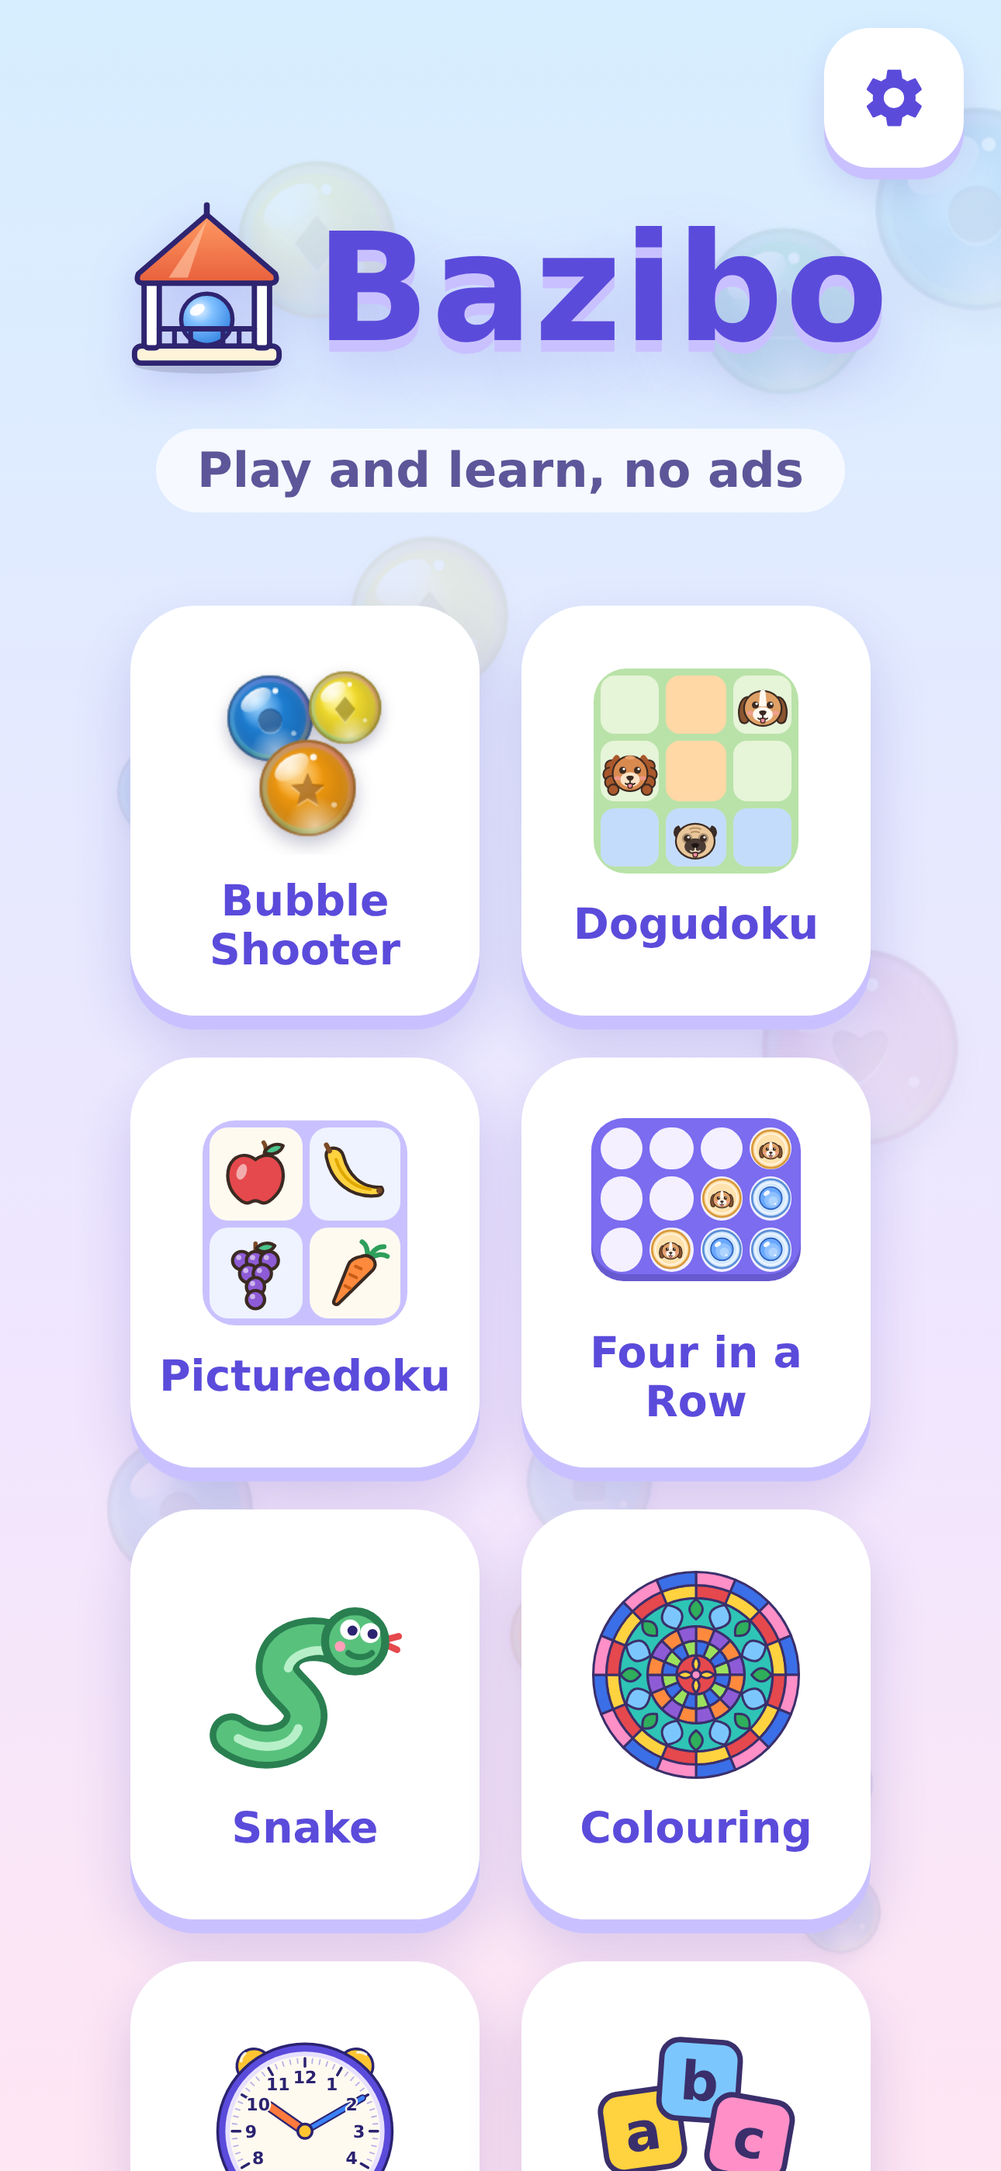
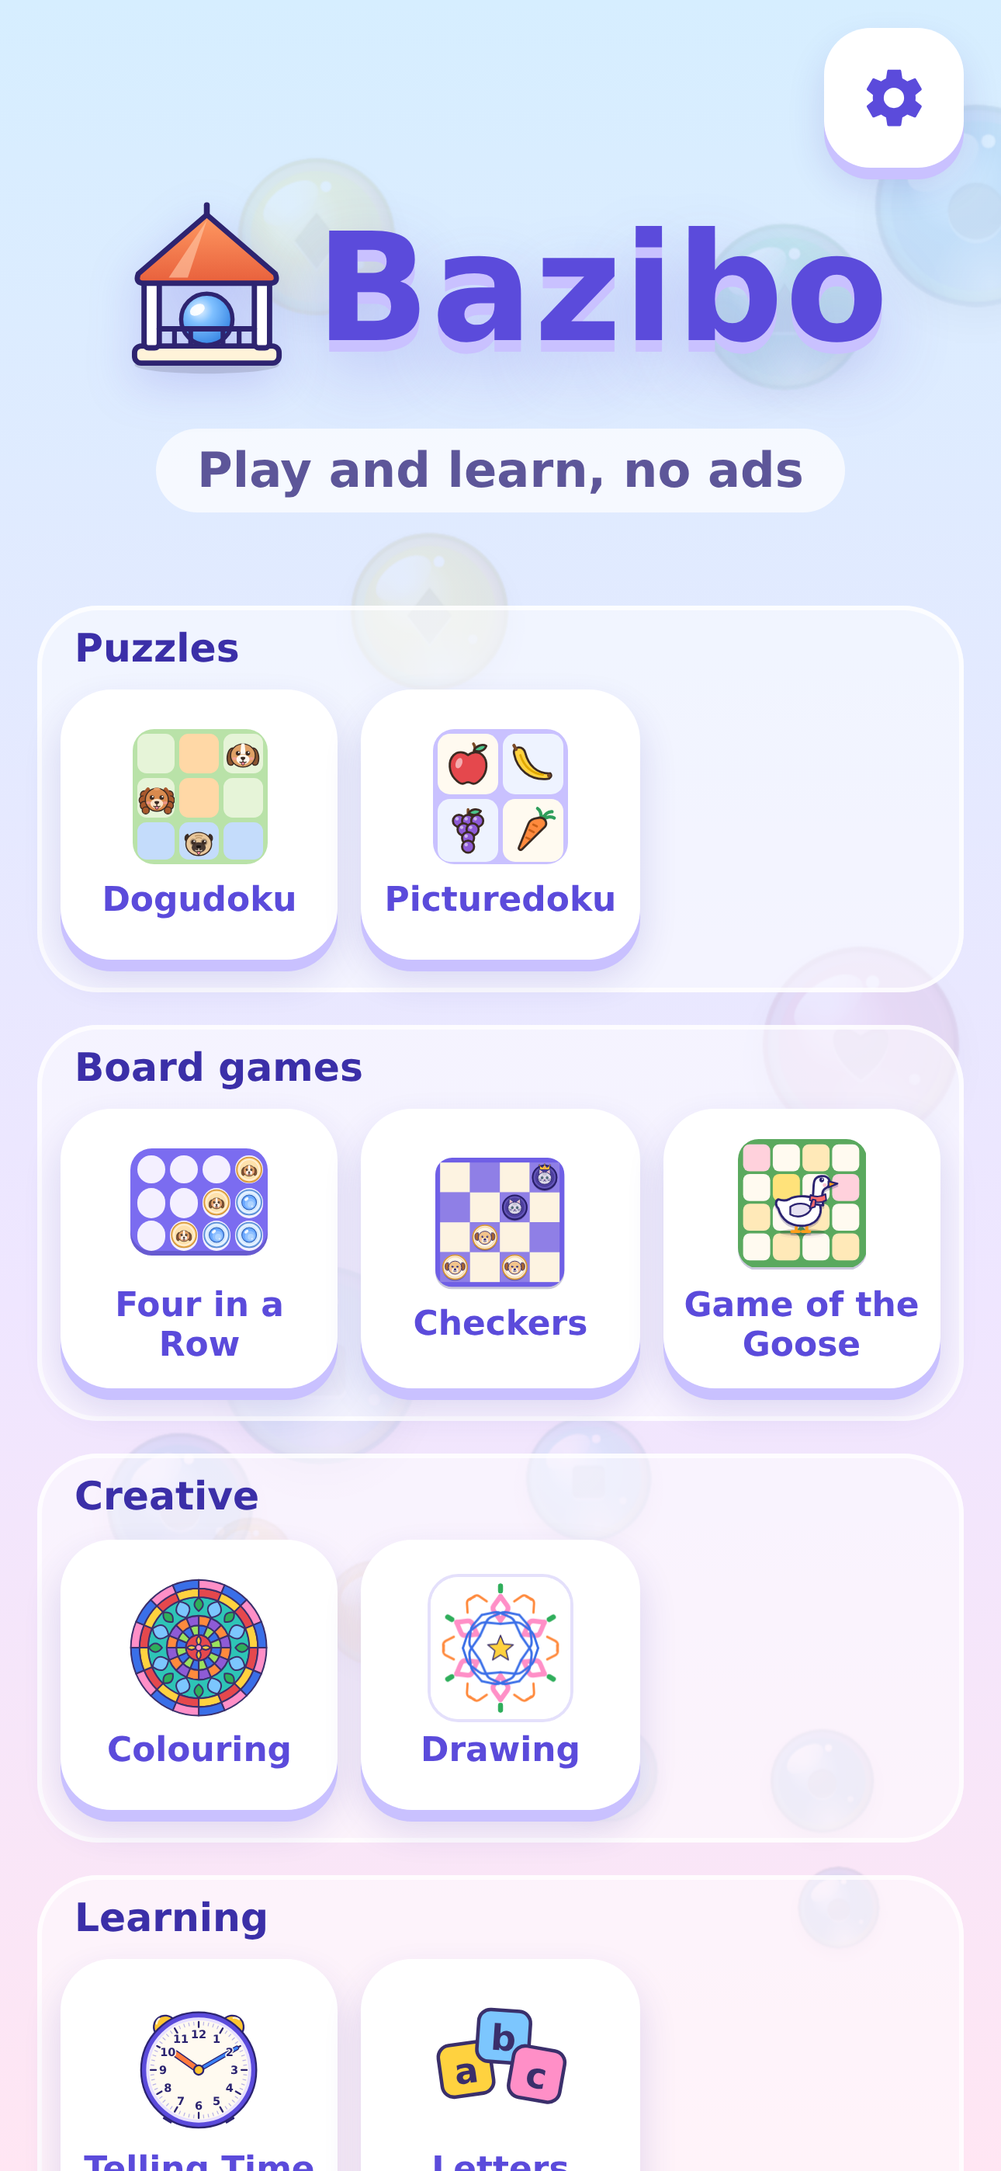
Home screen: game tiles as an app grid, in sections (#32)
* Home screen: the game tiles as an app grid, in sections

The tiles sat in one long column (two side by side). They now stand in five
sections, like folders on a phone: Puzzels/Puzzles, Bordspellen/Board games,
Creatief/Creative, Leren/Learning, Actie/Action.

- Data-driven: each game's meta.js names its `group`; GROUPS in games.js holds
  the sections and their order. main.js builds the tiles (same ids, same art,
  same click handling); index.html only has the container.
- Each section is a CSS grid with auto-fill/minmax: 3 tiles a row on phones
  from 360 px, 2 at 320 px (so the names stay whole), and on wider screens the
  sections stand side by side (tablet 5 a row, desktop 7).
- The 92 px tile drawings are scaled with `zoom` per size.
- Section headings in nl and en through t(); a test checks every game has a
  known section and no section is empty.
- Store screenshots: only 1-start (the home screen) regenerated.

* Home grid review fixes: whole names at 360 px, an "Overig" section for unknown groups

- The tile names scale with the tile's width (container query units,
  min(0.92rem, 13.4cqi)), so "Kleurplaten" and "Ganzenbord" stay whole in a
  3-column tile at 360 and 375 px, and in the sideways layouts; measured with
  ranges per word at 320, 360, 375, 390, 412, 568x320 and 844x390 in nl and en.
- A game whose `group` is not in GROUPS is no longer skipped: console.error and
  a tile in an "Overig"/"Other" section at the end (OTHER_GROUP).
[…]

Changed region(s): [[0.031, 0.28, 0.9612, 1.0], [0.8682, 0.9335, 0.8992, 1.0], [0.9302, 0.28, 0.9612, 0.3112]]

diff --git a/web/css/style.css b/web/css/style.css
@@ -139,38 +139,72 @@ html, body {
   padding: 12px 16px;
   z-index: 1;
 }
-.tiles {
+/* The tiles sit in sections (a group per kind of game, built by main.js), like the folders on a
+   phone's home screen. Phones: the sections are stacked and each one is a grid that fits as many
+   tiles of at least --tile-min as the width allows (3 on most phones, 2 on 320 px). Wider screens:
+   the sections stand side by side, each as wide as its own tiles (--n, set by main.js). */
+.tile-groups {
+  --tile-min: 96px;
+  --tile-gap: 10px;
+  --group-pad: 10px;
+  --art: 0.66; /* the 92 px drawings on the tiles, scaled */
+  width: 100%;
+  max-width: 560px;
   display: flex;
   flex-wrap: wrap;
   justify-content: center;
-  gap: 18px;
+  gap: 14px;
   margin: 0 0 4px;
+}
+.tile-group {
+  flex: 1 1 100%;
+  min-width: 0;
+  padding: 8px var(--group-pad) 14px;
+  border-radius: 26px;
+  background: rgba(255, 255, 255, 0.5);
+  box-shadow: inset 0 0 0 2px rgba(255, 255, 255, 0.75);
+  text-align: left;
+}
+.group-name {
+  margin: 0 6px 8px;
+  font-size: 1.05rem;
+  font-weight: 900;
+  line-height: 1.2;
+  color: var(--primary-dark);
+}
+.tiles {
+  display: grid;
+  grid-template-columns: repeat(auto-fill, minmax(var(--tile-min), 1fr));
+  gap: var(--tile-gap);
 }
 .tile {
   font: inherit;
   position: relative;
-  width: 150px;
-  min-height: 176px;
-  padding: 14px 10px 16px;
+  min-width: 0;
+  min-height: 116px;
+  padding: 10px 5px;
   border: 0;
-  border-radius: 28px;
+  border-radius: 22px;
   background: #fff;
   color: var(--primary);
-  box-shadow: 0 6px 0 #c9c1ff, 0 12px 24px rgba(59, 47, 168, 0.18);
+  box-shadow: 0 5px 0 #c9c1ff, 0 8px 16px rgba(59, 47, 168, 0.16);
   display: flex;
   flex-direction: column;
   align-items: center;
   justify-content: center;
-  gap: 10px;
+  gap: 6px;
+  text-align: center;
   cursor: pointer;
   touch-action: manipulation;
   transition: transform 0.08s ease, box-shadow 0.08s ease;
+  container-type: inline-size; /* the name's size follows the tile's width (cqi) */
 }
-.tile:active { transform: translateY(4px); box-shadow: 0 2px 0 #c9c1ff, 0 4px 10px rgba(59, 47, 168, 0.18); }
-.tile:focus-visible { outline: 4px solid var(--gold); outline-offset: 4px; }
-.tile-art { width: 92px; height: 92px; display: block; }
-.tile-art > span { flex: none; } /* the drawn mini boards keep their shape when scaled */
-.tile-name { font-size: 1.15rem; font-weight: 900; line-height: 1.15; overflow-wrap: anywhere; hyphens: manual; }
+.tile:active { transform: translateY(4px); box-shadow: 0 1px 0 #c9c1ff, 0 3px 8px rgba(59, 47, 168, 0.18); }
+.tile:focus-visible { outline: 4px solid var(--gold); outline-offset: 3px; }
+.tile-art { width: 92px; height: 92px; display: block; flex: none; zoom: var(--art); }
+.tile-art > span { flex: none; } /* the drawn mini boards keep their shape */
+/* the longest single words ("Kleurplaten", "Ganzenbord") must fit whole in a 3-column tile at 360 px */
+.tile-name { font-size: min(0.92rem, 13.4cqi); font-weight: 900; line-height: 1.15; overflow-wrap: break-word; hyphens: manual; }
 .tile.soon { background: rgba(255, 255, 255, 0.72); color: var(--ink-soft); }
 .tile.soon .tile-art { opacity: 0.6; }
 .badge {
@@ -393,17 +427,35 @@ html, body {
   .brand-mark { width: 52px; height: 52px; }
   .btn.big { min-height: 60px; font-size: 1.4rem; }
   .tagline { margin-bottom: 4px; }
-  .tile { min-height: 132px; width: 132px; padding: 10px; }
-  .tile-art { width: 64px; height: 64px; }
-  .tile-art > span { transform: scale(0.72); } /* the small drawn boards on the tiles */
   .promise { display: none; }
+  .tile-groups { --tile-min: 92px; --tile-gap: 8px; --group-pad: 8px; --art: 0.62; }
+  .tile { min-height: 108px; padding: 8px 4px; }
+  .tile-name { font-size: min(0.86rem, 13.4cqi); }
+  .group-name { margin-bottom: 6px; font-size: 1rem; }
 }
 
-/* narrow phones (320-360 px): two tiles side by side instead of one long column */
-@media (max-width: 360px) {
-  .tiles { gap: 14px; }
-  .tile { width: 132px; min-height: 152px; padding: 10px 8px 12px; gap: 8px; }
-  .tile-art { width: 76px; height: 76px; }
-  .tile-art > span { transform: scale(0.84); }
+/* narrow phones (320 px): two tiles a row, so the names stay whole; the drawings a bit bigger */
+@media (max-width: 359px) {
+  .tile-groups { --art: 0.78; --tile-gap: 10px; }
+}
+
+/* wider screens: the sections side by side, each as wide as its tiles */
+@media (min-width: 560px) {
+  .tile-groups { max-width: 1180px; gap: 14px 16px; }
+  .tile-group {
+    flex: 0 1 auto;
+    width: calc(var(--n) * var(--tile-min) + (var(--n) - 1) * var(--tile-gap) + 2 * var(--group-pad));
+  }
+}
+/* tablets and desktop (tall enough): bigger tiles */
+@media (min-width: 720px) and (min-height: 521px) {
+  .tile-groups { --tile-min: 124px; --tile-gap: 12px; --group-pad: 12px; --art: 0.86; }
+  .tile { min-height: 150px; border-radius: 26px; gap: 8px; }
   .tile-name { font-size: 1.05rem; }
+  .group-name { font-size: 1.15rem; }
+}
+@media (min-width: 1100px) and (min-height: 521px) {
+  .tile-groups { --tile-min: 140px; --art: 0.95; }
+  .tile { min-height: 166px; }
+  .tile-name { font-size: 1.12rem; }
 }

diff --git a/web/index.html b/web/index.html
@@ -26,7 +26,7 @@
 </head>
 <body>
   <main id="app">
-    <!-- home: the brand and one tile per game -->
+    <!-- home: the brand and one tile per game, grouped -->
     <section id="screen-home" class="screen active" data-i18n-aria="home.label" aria-label="Start">
       <canvas id="home-bg" aria-hidden="true"></canvas>
       <header class="home-top">
@@ -41,52 +41,8 @@
           <h1 class="logo" id="brand-name">Bazibo</h1>
         </div>
         <p class="tagline" id="brand-tagline">Spelen en leren, zonder reclame</p>
-        <div class="tiles" role="group" data-i18n-aria="home.games" aria-label="Spellen">
-          <button id="tile-bubbels" class="tile" type="button" data-game="bubbels">
-            <canvas class="tile-art" width="160" height="160" aria-hidden="true"></canvas>
-            <span class="tile-name" data-i18n="bubbels.title">Bubbels schieten</span>
-          </button>
-          <button id="tile-dogudoku" class="tile" type="button" data-game="dogudoku">
-            <span class="tile-art" aria-hidden="true"></span>
-            <span class="tile-name" data-i18n="games.dogudoku">Dogudoku</span>
-          </button>
-          <button id="tile-picturedoku" class="tile" type="button" data-game="picturedoku">
-            <span class="tile-art" aria-hidden="true"></span>
-            <span class="tile-name" data-i18n="games.picturedoku">Picture&shy;doku</span>
-          </button>
-          <button id="tile-vier" class="tile" type="button" data-game="vier">
-            <span class="tile-art" aria-hidden="true"></span>
-            <span class="tile-name" data-i18n="games.vier">Vier op een rij</span>
-          </button>
-          <button id="tile-dammen" class="tile" type="button" data-game="dammen">
-            <span class="tile-art" aria-hidden="true"></span>
-            <span class="tile-name" data-i18n="games.dammen">Dammen</span>
-          </button>
-          <button id="tile-ganzen" class="tile" type="button" data-game="ganzen">
-            <span class="tile-art" aria-hidden="true"></span>
-            <span class="tile-name" data-i18n="games.ganzen">Ganzenbord</span>
-          </button>
-          <button id="tile-slang" class="tile" type="button" data-game="slang">
-            <span class="tile-art" aria-hidden="true"></span>
-            <span class="tile-name" data-i18n="games.slang">Slangetje</span>
-          </button>
-          <button id="tile-kleuren" class="tile" type="button" data-game="kleuren">
-            <span class="tile-art" aria-hidden="true"></span>
-            <span class="tile-name" data-i18n="games.kleuren">Kleurplaten</span>
-          </button>
-          <button id="tile-tekenen" class="tile" type="button" data-game="tekenen">
-            <span class="tile-art" aria-hidden="true"></span>
-            <span class="tile-name" data-i18n="games.tekenen">Tekenen</span>
-          </button>
-          <button id="tile-klok" class="tile" type="button" data-game="klok">
-            <span class="tile-art" aria-hidden="true"></span>
-            <span class="tile-name" data-i18n="games.klok">Klok kijken</span>
-          </button>
-          <button id="tile-letters" class="tile" type="button" data-game="letters">
-            <span class="tile-art" aria-hidden="true"></span>
-            <span class="tile-name" data-i18n="games.letters">Letters</span>
-          </button>
-        </div>
+        <!-- the game tiles, in sections (Puzzels, Bordspellen, ...): built by main.js from GROUPS and GAMES in js/games.js -->
+        <div class="tile-groups" id="tile-groups" role="group" data-i18n-aria="home.games" aria-label="Spellen"></div>
         <p class="promise" data-i18n="home.promise">Geen reclame. Nooit.</p>
         <p class="lore" id="brand-lore">Bazibo: “bāzi” betekent spel</p>
       </div>

diff --git a/web/js/main.js b/web/js/main.js
@@ -2,7 +2,7 @@
 // the one purchase that opens every game. Each game lives in web/games/<id>/.
 import { BRAND } from './brand.js';
 import { gazeboSvg } from './logo.js';
-import { GAMES } from './games.js';
+import { GAMES, GROUPS, OTHER_GROUP } from './games.js';
 import { t, getLang, setLang, pickLang, onLangChange, translateDom } from './i18n.js';
 import { COLORS, getSprite, drawBubble } from './bubble-art.js';
 import * as store from './storage.js';
@@ -152,6 +152,53 @@ $('#btn-transfer').addEventListener('click', () => {
 });
 
 // ---------- home tiles ----------
+
+/** One section per group (GROUPS in games.js) with its games' tiles, in GAMES order. The art is
+ *  drawn into each `.tile-art` later (drawTileArt and friends); the texts come from translateDom. */
+function buildTiles() {
+  const box = $('#tile-groups');
+  // a game whose group is not in GROUPS still gets a tile, in an "Overig" section at the end
+  const known = new Set(GROUPS.map((g) => g.id));
+  const lost = GAMES.filter((g) => !known.has(g.group));
+  for (const g of lost) console.error(`home: game ${g.id} has an unknown group ${JSON.stringify(g.group)}; shown under ${OTHER_GROUP.id}`);
+  for (const group of [...GROUPS, OTHER_GROUP]) {
+    const list = group === OTHER_GROUP ? lost : GAMES.filter((g) => g.group === group.id);
+    if (!list.length) continue;
+    const section = document.createElement('section');
+    section.className = 'tile-group';
+    section.style.setProperty('--n', list.length);
+    const head = document.createElement('h2');
+    head.className = 'group-name';
+    head.id = `group-${group.id}`;
+    head.dataset.i18n = group.titleKey;
+    head.textContent = t(group.titleKey);
+    const tiles = document.createElement('div');
+    tiles.className = 'tiles';
+    tiles.setAttribute('role', 'group');
+    tiles.setAttribute('aria-labelledby', head.id);
+    for (const game of list) {
+      const tile = document.createElement('button');
+      tile.id = `tile-${game.id}`;
+      tile.className = game.status === 'ready' ? 'tile' : 'tile soon';
+      tile.type = 'button';
+      tile.dataset.game = game.id;
+      // Bubbels paints its bubbles on a canvas; the other games put their own drawing in a span
+      const art = document.createElement(game.id === 'bubbels' ? 'canvas' : 'span');
+      if (art instanceof HTMLCanvasElement) art.width = art.height = 160;
+      art.className = 'tile-art';
+      art.setAttribute('aria-hidden', 'true');
+      const name = document.createElement('span');
+      name.className = 'tile-name';
+      name.dataset.i18n = game.titleKey;
+      name.textContent = t(game.titleKey);
+      tile.append(art, name);
+      tiles.append(tile);
+    }
+    section.append(head, tiles);
+    box.append(section);
+  }
+}
+buildTiles();
 
 function drawTileArt() {
   const c = $('#tile-bubbels .tile-art');
@@ -391,7 +438,7 @@ const homeAnim = {
       canvas.width = Math.round(w * dpr);
       canvas.height = Math.round(h * dpr);
       const base = canvas.getBoundingClientRect();
-      keepOut = ['.logo', '.tagline', '.tiles'].map((sel) => {
+      keepOut = ['.logo', '.tagline', '.tile-groups'].map((sel) => {
         const r = $(sel).getBoundingClientRect();
         return { x0: r.left - base.left, x1: r.right - base.left, y0: r.top - base.top, y1: r.bottom - base.top };
       });

diff --git a/tests/i18n.test.js b/tests/i18n.test.js
@@ -18,7 +18,7 @@ import { STAMPS } from '../web/games/tekenen/drawing.js';
 import '../web/games/klok/strings.js';
 import '../web/games/letters/strings.js';
 import '../web/js/random.js';
-import { GAMES } from '../web/js/games.js';
+import { GAMES, GROUPS, OTHER_GROUP } from '../web/js/games.js';
 import { BRAND } from '../web/js/brand.js';
 
 const WEB = new URL('../web/', import.meta.url).pathname;
@@ -51,6 +51,7 @@ test('every key used in index.html and in the code exists', () => {
     for (const m of readFileSync(f, 'utf8').matchAll(/\bt\('([a-zA-Z0-9.]+)'/g)) used.add(m[1]);
   }
   for (const g of GAMES) used.add(g.titleKey);
+  for (const g of [...GROUPS, OTHER_GROUP]) used.add(g.titleKey); // the section headings on the home screen
   for (const n of [1, 2, 3]) used.add(`bubbels.win${n}`); // built as t(`bubbels.win${stars}`)
   for (const n of [1, 2, 3]) used.add(`dogudoku.win${n}`);
   for (const r of ['row', 'col', 'region', 'touch', 'bush']) used.add(`dogudoku.rule.${r}`).add(`dogudoku.oops.${r}`);
@@ -108,4 +109,12 @@ test('t() fills placeholders and the brand name, and switches language', () => {
 test('the brand has a name and a tagline in every language', () => {
   assert.ok(BRAND.name);
   for (const l of LANGS) assert.ok(BRAND.tagline[l], `tagline missing for ${l}`);
+});
+
+test('every game sits in one section of the home screen, and no section is empty', () => {
+  const ids = GROUPS.map((g) => g.id);
+  assert.equal(new Set(ids).size, ids.length, 'a section id twice');
+  assert.ok(!ids.includes(OTHER_GROUP.id), 'the fallback section is not a real one');
+  for (const g of GAMES) assert.ok(ids.includes(g.group), `${g.id}: group ${g.group} is not in GROUPS`);
+  for (const id of ids) assert.ok(GAMES.some((g) => g.group === id), `section ${id} has no games`);
 });

diff --git a/web/js/games.js b/web/js/games.js
@@ -1,6 +1,7 @@
 // The games in the app, in the order of the tiles on the home screen. A game that is not ready
 // yet shows as a "coming soon" tile. Adding a game: web/games/<id>/ with meta.js (id, titleKey,
-// free tier), strings.js and a controller, then an entry here and a tile in index.html.
+// group, free tier), strings.js and a controller, then an entry here; the shell builds its tile
+// in the section of its `group` (main.js) and draws its art.
 import { meta as bubbels } from '../games/bubbels/meta.js';
 import { meta as dogudoku } from '../games/dogudoku/meta.js';
 import { meta as picturedoku } from '../games/picturedoku/meta.js';
@@ -12,6 +13,18 @@ import { meta as kleuren } from '../games/kleuren/meta.js';
 import { meta as tekenen } from '../games/tekenen/meta.js';
 import { meta as klok } from '../games/klok/meta.js';
 import { meta as letters } from '../games/letters/meta.js';
+
+// The sections of the home screen, in order. A game picks one with `group` in its meta.js; within
+// a section the tiles follow the order of GAMES.
+export const GROUPS = [
+  { id: 'puzzles', titleKey: 'home.group.puzzles' },
+  { id: 'board', titleKey: 'home.group.board' },
+  { id: 'creative', titleKey: 'home.group.creative' },
+  { id: 'learning', titleKey: 'home.group.learning' },
+  { id: 'action', titleKey: 'home.group.action' },
+];
+// Where a game with an unknown `group` lands (with an error in the console), so it never disappears.
+export const OTHER_GROUP = Object.freeze({ id: 'other', titleKey: 'home.group.other' });
 
 export const GAMES = [
   { ...bubbels, status: 'ready' },

diff --git a/web/js/i18n.js b/web/js/i18n.js
@@ -65,6 +65,12 @@ addStrings({
     'home.settings': 'Instellingen',
     'home.soon': 'binnenkort',
     'home.promise': 'Geen reclame. Nooit.',
+    'home.group.puzzles': 'Puzzels',
+    'home.group.board': 'Bordspellen',
+    'home.group.creative': 'Creatief',
+    'home.group.learning': 'Leren',
+    'home.group.action': 'Actie',
+    'home.group.other': 'Overig',
     'soon.title': 'Komt eraan!',
     'soon.text': 'Aan dit spel wordt nog gewerkt. Tot die tijd: veel plezier met de andere spellen!',
     'games.picturedoku': 'Picture\u00ADdoku',
@@ -164,6 +170,12 @@ addStrings({
     'home.settings': 'Settings',
     'home.soon': 'coming soon',
     'home.promise': 'No ads. Ever.',
+    'home.group.puzzles': 'Puzzles',
+    'home.group.board': 'Board games',
+    'home.group.creative': 'Creative',
+    'home.group.learning': 'Learning',
+    'home.group.action': 'Action',
+    'home.group.other': 'Other',
     'soon.title': 'Coming soon!',
     'soon.text': 'This game is still being made. Until then, have fun with the other games!',
     'games.picturedoku': 'Picture\u00ADdoku',

diff --git a/web/sw.js b/web/sw.js
@@ -1,7 +1,7 @@
 // Offline play: precache the whole (small) app with all its games, then serve cache-first.
 // VERSION is a hash of every file in ASSETS, written by `npm run stamp` (tools/stamp-sw.mjs).
 // `npm test` fails when it does not match, so a release cannot leave players on an old build.
-const VERSION = 'bubbels-ce399b03a6';
+const VERSION = 'bubbels-33d539fc8a';
 const ASSETS = [
   './',
   'index.html',

diff --git a/web/games/dammen/meta.js b/web/games/dammen/meta.js
@@ -4,6 +4,7 @@
 export const meta = Object.freeze({
   id: 'dammen',
   titleKey: 'games.dammen',
+  group: 'board', // the section on the home screen (GROUPS in js/games.js)
   freeLevels: Object.freeze([1]),
   freeVariants: Object.freeze(['small']),
   /** Is this game setup behind the full version? `setup`: { variant, mode: 'duo'|'cpu', level }. */

diff --git a/web/games/ganzen/meta.js b/web/games/ganzen/meta.js
@@ -4,6 +4,7 @@
 export const meta = Object.freeze({
   id: 'ganzen',
   titleKey: 'games.ganzen',
+  group: 'board', // the section on the home screen (GROUPS in js/games.js)
   freeBoards: Object.freeze(['classic']),
   freePlayers: 2,
   /** Is this game setup behind the full version? `setup`: { board, players: ['kid'|'cpu', ...] }. */

diff --git a/web/games/vier/meta.js b/web/games/vier/meta.js
@@ -4,6 +4,7 @@
 export const meta = Object.freeze({
   id: 'vier',
   titleKey: 'games.vier',
+  group: 'board', // the section on the home screen (GROUPS in js/games.js)
   freeLevels: Object.freeze([1, 2]),
   /** Is this game setup behind the full version? `setup`: { mode: 'duo'|'cpu', level }. */
   isLocked(setup, owned) {

diff --git a/web/games/klok/meta.js b/web/games/klok/meta.js
@@ -4,6 +4,7 @@
 export const meta = Object.freeze({
   id: 'klok',
   titleKey: 'games.klok',
+  group: 'learning', // the section on the home screen (GROUPS in js/games.js)
   freeTiers: Object.freeze(['t1', 't2']),
   /** Is this round (`{ mode, tier }`) behind the full version? */
   isLocked(round, owned) {

diff --git a/web/games/letters/meta.js b/web/games/letters/meta.js
@@ -4,6 +4,7 @@
 export const meta = Object.freeze({
   id: 'letters',
   titleKey: 'games.letters',
+  group: 'learning', // the section on the home screen (GROUPS in js/games.js)
   freeTiers: Object.freeze(['t1']),
   /** Is this round (`{ mode, tier }`) behind the full version? */
   isLocked(round, owned) {
